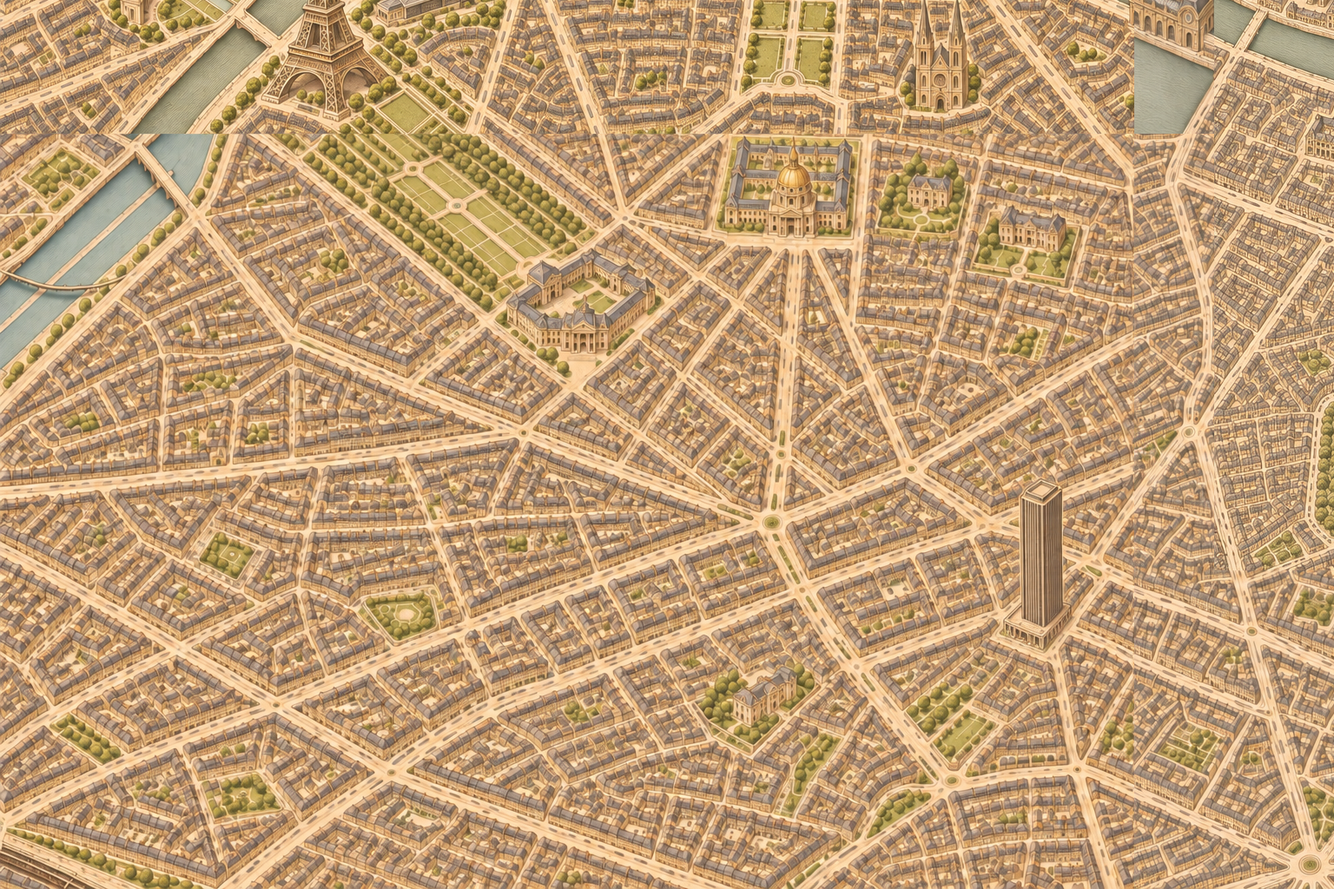
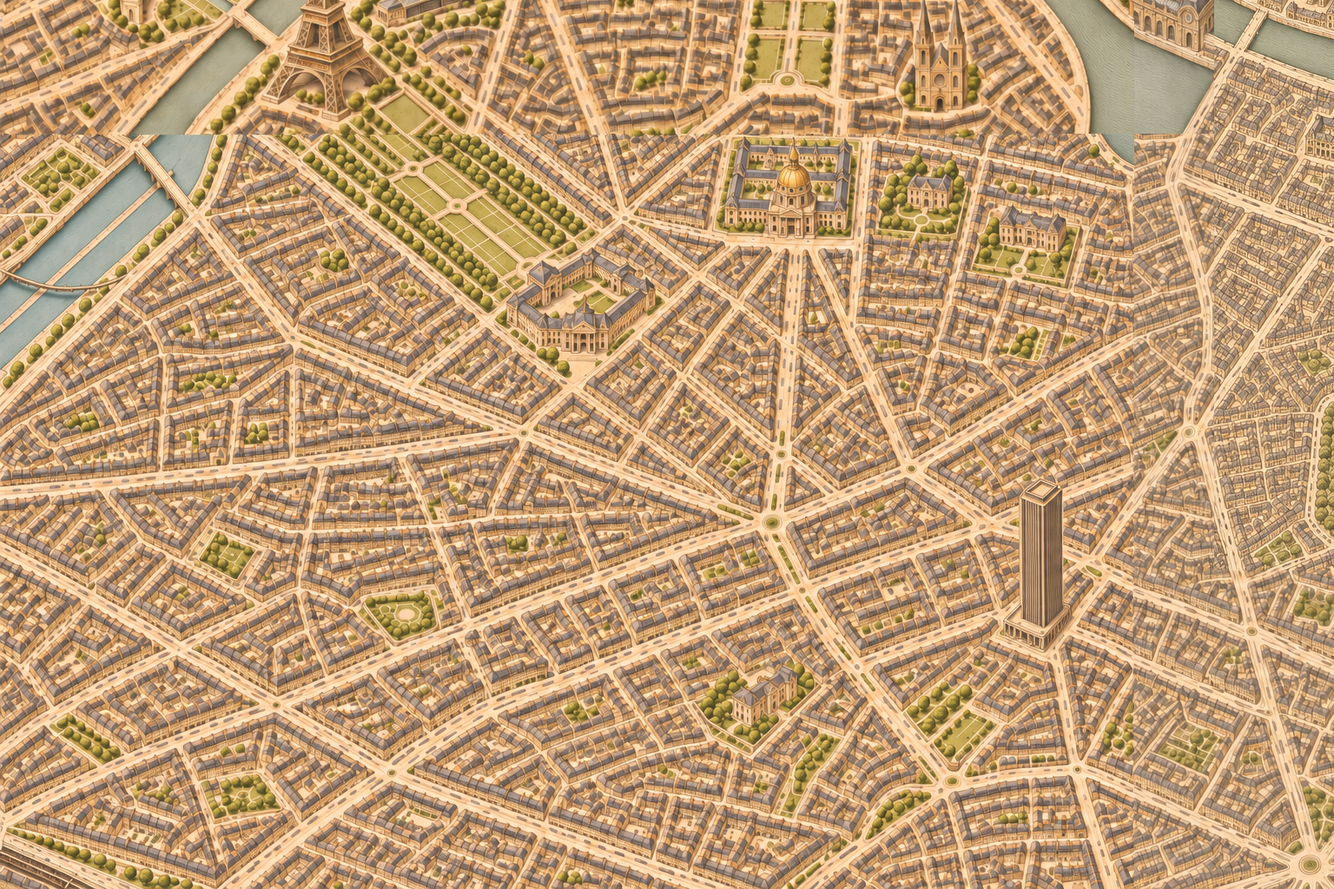
Paris09 v2 with approved05 top edge and flowing river inlet

Changed region(s): [[0.0, 0.0, 0.875, 1.0]]

diff --git a/posti/pariisi-palat-1-15-20261102/pala09/QA-FI.md b/posti/pariisi-palat-1-15-20261102/pala09/QA-FI.md
@@ -2,7 +2,7 @@
 
 1536 × 1024 RGB, Karttasepän nykyinen runko ja lukitse.py. Tyyli: hyväksytty pala00 ja 2029. Lukittujen pikselien erot 0; naapurin ja pala00:n havaintopisteet siirrettiin samalla tarkalla kokonaislukusiirrolla. Uudet havaintopisteet luettiin kuvasta.
 
-Mitattuja kohteita 12, kaikki rakennusalan/pisteen sallitun 140 m rajan sisällä. 60–140 m kylttisiirtoja 6, tiedostossa kylttisiirrot-pala09.json. 0 pienempää kohdetta ei ole itsenäisesti mitattu; ne säilyvät kortteli-/puistoyksityiskohtina lähdepostin sallimalla tavalla. Niille ei keksitty havaintokoordinaatteja. Kohteiden tila ja tarkistimen raakatulos ovat mukana.
+Mitattuja kohteita 12, kaikki rakennusalan/pisteen sallitun 140 m rajan sisällä. 60–140 m kylttisiirtoja 5, tiedostossa kylttisiirrot-pala09.json. 0 pienempää kohdetta ei ole itsenäisesti mitattu; ne säilyvät kortteli-/puistoyksityiskohtina lähdepostin sallimalla tavalla. Niille ei keksitty havaintokoordinaatteja. Kohteiden tila ja tarkistimen raakatulos ovat mukana.
 
 Karttaseppä tarkistaa tämän version, toteuttaa kylttisiirrot ja kokoaa sekä häivyttää palarajat LUE.md:n mukaan. Paikallinen toimitus ei tarkoita vastaanottajan hyväksyntää, koko kaupungin saumatarkistusta tai pelijulkaisua.
 
